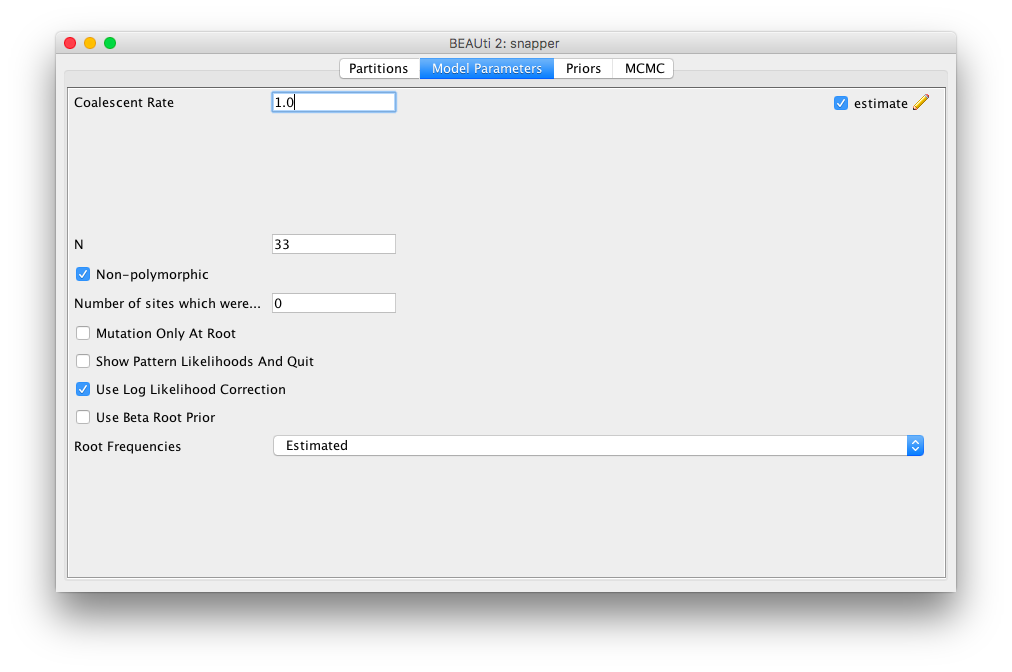
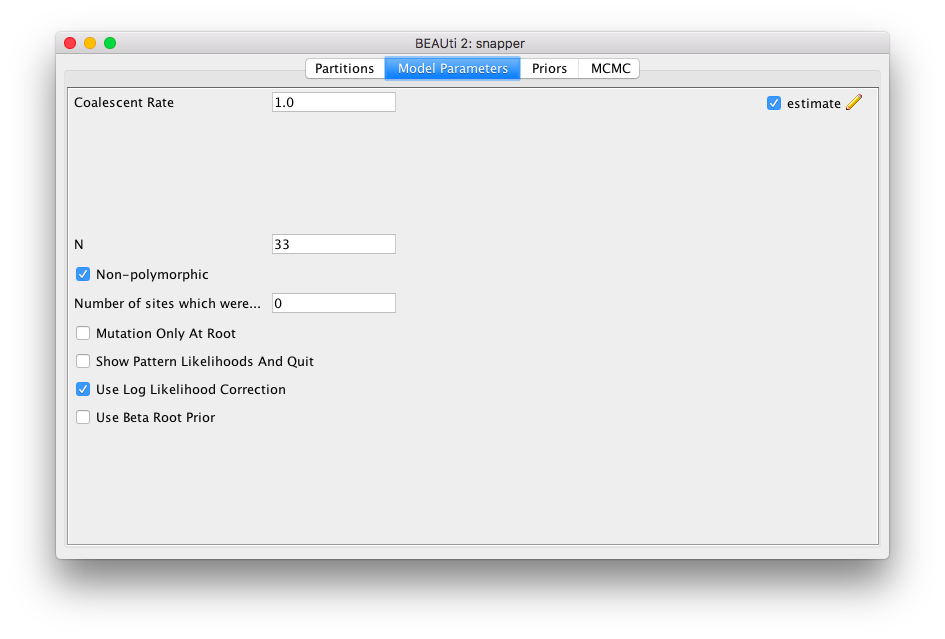
update snapper tutorial

Changed region(s): [[0.0307, 0.0297, 0.9513, 0.892], [0.2762, 0.3568, 0.3989, 0.3865], [0.2762, 0.6541, 0.3683, 0.6839]]

diff --git a/snapper-delimitation/tutorial/snapper-tutorial-steps.tex b/snapper-delimitation/tutorial/snapper-tutorial-steps.tex
@@ -96,9 +96,7 @@
 
 \step{Import the SNP data.}{
     Import the SNP data (the {\bf hemi129.nex} file)
-    using the drop-down menu \subItem{File}{Import Alignment.}
-    
-    \footnote{For the SNAPP tutorial, there is a smaller version of the {\bf hemi129.nex} file called {\bf smallhemi129.nex}. If you load the full data set from {\bf hemi129.nex} with SnAPP you might not finish this tutorial in the allocated time frame. However, the runtime of SNAPPER is not sensitive to the number of sequences per species, just the number of species and length of sequences.}
+    using the drop-down menu \subItem{File}{Import Alignment.\footnote{For the SNAPP tutorial, there is a smaller version of the {\bf hemi129.nex} file called {\bf smallhemi129.nex}. If you load the full data set from {\bf hemi129.nex} with SnAPP you might not finish this tutorial in the allocated time frame. However, the runtime of SNAPPER is not sensitive to the number of sequences per species, just the number of species and length of sequences.}}
 
     Once the data are successfully loaded into \program{BEAUTi} you should see a list of the 
     samples included in the data file (Figure~\ref{fig:beauti-data-imported}.)
@@ -134,7 +132,7 @@
      
     How many samples should you include? More samples give more accurate estimates and has not computation cost for SNAPPER (unlike SNAPP, which is very sensitive to the number of samples), so the more samples the better.
     Keep in mind that the number of species slows down SNAPPER much more than the number of SNPs.
-    If you have too many species and the analysis rusn unbearably slow, you might sub-sample the number of species
+    If you have too many species and the analysis rusn unbearably slow, you might sub-sample the number of species.
 
     \begin{figure}[htbp]
         \centering
@@ -148,22 +146,18 @@
 }
 
 
-\step{Set the mutation model.}{
-    Next, set up our model under the \menutab{Mutation Model} tab Figure~\ref{fig:beauti-mutation}.
-    Be sure to read the documentation \href{http://www.beast2.org/tutorials}{A rough guide to SNAPPER} to learn more about the model options. Briefly, the parameters are as follows:
-
-\small{
-    \begin{compactdesc}
-       \item[\field{Mutation Rate U: instantaneous rate of mutating from the 0 allele to the 1 allele.}]
-       \item[\field{Mutation Rate V: instantaneous rate of mutating from the 1 allele to the 0 allele.}]
-       \item[\field{Coalescence Rate: population size parameter with one value for each node in the tree.}]
-    \end{compactdesc}
+\step{Set the model parameters.}{
+    Next, set up our model under the \menutab{Model Parameters} tab Figure~\ref{fig:beauti-mutation}.
+    Be sure to read the documentation \href{http://www.beast2.org/tutorials}{A rough guide to SNAPP} to learn more about the model options\footnote{For SNAPP, the mutation rates U and V representing instantaneous rate of mutating from the 0 allele to the 1 allele and from 1 to 0 respectively are included in the model. However, keeping U and V equal to 1 seems more appropriate, so these parameters are hidden in BEAUti for the SNAPPER model.}. Briefly, the parameter of interest is the {\tt Coalescent Rate} which determines the population size parameter with one value for each node in the tree.
     
-    \textit{Recommendations:}  Set mutation rates u and v = 1 and do not sample. Alternatively, you can click the {\bf ``Calc mutation rates''} button to get a direct estimate of u and v. Either way, you typically do not have to estimate these parameters during the MCMC. 
+    \textit{Recommendations:}  %Set mutation rates u and v = 1 and do not sample. Alternatively, you can click the {\bf ``Calc mutation rates''} button to get a direct estimate of u and v. Either way, you typically do not have to estimate these parameters during the MCMC. 
     
-    ``Coalescent Rate'': check the sample box. If you do not sample, then you assume that all population sizes are the same, which is unrealistic. The coalescent rate is 2/theta, and the number is simply the starting value used to initialize the analysis. Do not confuse the coalescent rate with the theta prior. The theta prior is described in detail in the next section.
+    ``Coalescent Rate'': check the ``estimate`` box. If you do not sample, then you assume that all population sizes are the same, which is unrealistic. The coalescent rate is 2/theta, and the number is simply the starting value used to initialise the analysis. Do not confuse the coalescent rate with the theta prior. 
+    %The theta prior is described in detail in the next section.
     
-    The ``Include non-polymorphic'' checkbox is used in cases where invariant sites have been included in the data. The likelihood calculations are 
+    ``N'' is the dimension of Chebyshef functions used for approximating the SNAPP tree likelihood. N should be power of 2 plus 1 (e.g. 33, 17, 65). Higher values are more accurate but slower.
+    
+    The ``Non-polymorphic'' checkbox is used in cases where invariant sites have been included in the data. The likelihood calculations are 
     different if \program{SNAPPER} assumes that all constant sites have been removed. If you are using a typical SNP dataset that only includes variable site, then make sure that the box is not checked.
     
     The ``Mutation Only At Root'' checkbox indicates conditioning on zero mutations, except at root (default false). As a result, all gene 
@@ -172,7 +166,9 @@
     The ``Show Pattern Likelihoods And Quit'' checkbox is handy if you just want to print out the likelihoods for all patterns in the starting state and then quit.
     
     The ``Use Log Likelihood Correction'' checkbox is for calculating corrected likelihood values for Bayes factor test of different species assignments (the calculation is almost instantaneous, and it will not slow down your analysis).
-    }
+    
+    When the ``Use beta root prior'' checkbox is checked, instead of using a uniform prior for allele frequencies at the root, a beta root prior is used.
+ 
     
         \begin{figure}[htbp]
         \centering
@@ -191,20 +187,18 @@
     However, setting it up right requires thinking about details that some empiricists would rather not think about.
 
 
-TODO: fix the following
-\small{
-    \begin{compactdesc}
-       \item[\field{Alpha: shape parameter for the gamma prior on population sizes.}]
-       \item[\field{Beta: rate parameter for the gamma prior on population sizes.}]
-       \item[\field{Kappa: parameter used when selecting the CIR rate prior (below).}]
-       \item[\field{Lambda: Birth rate for the Yule model prior on the species tree.}]
-       \item[\field{Rateprior: prior on rates can be Gamma, InverseGamma, CIR, or Uniform.}]
-    \end{compactdesc}
-}
 
-\textit{Setting the expected divergence (theta) prior.} Recall that for a diploid population, theta = 4Nu, where N is the effective population size and u is the per-generation mutation rate. If theta=0.004, you expect to observe 0.4\% variation between two randomly sampled alleles in a population. Another way to think about this is in the expected number of substitutions; ``theta=0.004'' means that for two randomly sampled individuals within a population you expect to observe 4 SNPs in 1,000 bases. In \program{BEAUTi}, the gamma prior on theta is parameterized such that the mean is alpha/beta. For example, if alpha=1 and beta = 250, the prior mean on theta is 0.004. One way of estimating a reasonable mean for the theta prior is to calculate pairwise sequence divergence among all individuals known to belong to a single species and take the average value as the mean for theta. Higher prior means on theta will favor models with populations grouped together, because they represent an expectation that average divergence within populations is relatively high. Users can select different distributions for the theta prior under ``Rateprior''. If ``Rateprior'' is set to ``gamma'' (recommended), the mean value of theta is calculated as alpha/beta.  Note that in some implementations (including the R function rgamma() and Beauti's internal visualizer), the mean of a gamma distribution is calculated as alpha*beta rather than alpha/beta. This is the case for the Lambda prior (discussed below). Finally, kappa is a parameter that is only applied when the CIR distribution is used (see the Rough Guide to SNAPPER for further details). 
 
-\textit{Setting the speciation rate prior Lambda:} \program{SNAPPER} uses a Yule prior for the species tree and branch lengths on the species tree. This prior has a single parameter, {$\lambda$} (Lambda), representing the speciation rate. This rate, in turn, determines the (prior) expected height of the species tree. The higher the speciation rate, the higher the probability of supporting more species during species delimitation. The trees that come out of SNAPPER are not time calibrated. The branch lengths should be interpreted in units of expected substitutions per site. Translating this into time requires an assumption about the substitution rate. Two different options for setting lambda are compared in this tutorial: using a fixed value versus assigning a broad prior. In general, tree height estimates are similar using either a fixed lambda (lambda = 5) or a gamma distribution (2, 200), as shown below. The mean of the gamma distribution for Lambda is calculated as alpha*beta rather than alpha/beta as it is for theta. 
+The default priors are
+\begin{itemize}
+\item for the tree, a Yule prior representing a pure birth process with birth rate parameter {$\lambda$}.
+\item a {\bf terrible} uniform prior with range minus infinity to plus infinity for the birth rate {$\lambda$}.
+\item a gamma prior with shape=2, scale=2 for coalescent rates.
+\end{itemize}
+
+The prior on {$\lambda$} seems non-informative allowing the data to drive the analysis instead of prior information. However, for estimating the marginal likelihood using path sampling (see Step 11), ``proper'' priors are required. A proper prior is a prior that when integrating over its range sums to 1. Since the uniform prior has infinite bounds, the integral over the range does not do that. The prior can be made proper by defining finite upper and lower bounds.\footnote{The 1/X prior is another prior that is not proper and therefore not recommended.}
+
+\textit{Setting the speciation rate prior Lambda:} \program{SNAPPER} by default uses a Yule prior for the species tree and branch lengths on the species tree. This prior has a single parameter, {$\lambda$} (Lambda), representing the speciation rate. This rate, in turn, determines the (prior) expected height of the species tree. The higher the speciation rate, the higher the probability of supporting more species during species delimitation. The trees that come out of SNAPPER are not time calibrated. The branch lengths should be interpreted in units of expected substitutions per site. Translating this into time requires an assumption about the substitution rate. Two different options for setting lambda are compared in this tutorial: using a fixed value versus assigning a broad prior. In general, tree height estimates are similar using either a fixed lambda (lambda = 5) or a gamma distribution (2, 2), as shown below. The mean of the gamma distribution for Lambda is calculated as alpha*beta rather than alpha/beta as it is for theta. 
 
      \begin{figure}[htbp]
         \centering
@@ -214,7 +208,7 @@ TODO: fix the following
     \end{figure}  
     
     
-\textit{Fixed value for Lambda}: The specific prior that you use for {$\lambda$} (Lambda) depends on the number of species in your analysis and the depth of your tree in units of expected substitutions per site. See the Rough Guide to SNAPPER for further details and an equation for calculating Lambda. Using a useful script written by Jamie Oaks, called \href{https://github.com/joaks1/pyule}{pyule}, you can calculate an appropriate lambda value based on prior information about the number of species, and the height of the species tree in expected substitutions per site. If sequence data are available, then you can approximate the height of the species tree obtained by calculating the maximum observed divergence between any pair of taxa divided by two (height = max divergence/2). 
+\textit{Fixed value for Lambda}: The specific prior that you use for {$\lambda$} (Lambda) depends on the number of species in your analysis and the depth of your tree in units of expected substitutions per site. See the Rough Guide to SNAPP for further details and an equation for calculating Lambda. Using a useful script written by Jamie Oaks, called \href{https://github.com/joaks1/pyule}{pyule}, you can calculate an appropriate lambda value based on prior information about the number of species, and the height of the species tree in expected substitutions per site. If sequence data are available, then you can approximate the height of the species tree obtained by calculating the maximum observed divergence between any pair of taxa divided by two (height = max divergence/2). 
    \newpage
 Table 1 provides some suggestions for Lambda priors across a range of expected substitutions per site from root to tip (up to 20\% sequence divergence from root to any tip), and for relatively small species trees (up to 20 species). In general, different Lambda settings do not influence the results, since in most cases the data will dominate. 
 
@@ -250,6 +244,11 @@ Number of species 	& 5	& 1283 	& 257 	& 128 	& 26 		& 13 		& 6\\
         \label{fig:beauti-prior2}
     \end{figure}   
     
+    
+\textit{Setting the expected divergence (theta) prior.} Recall that for a diploid population, theta = 4Nu, where N is the effective population size and u is the per-generation mutation rate. If theta=0.004, you expect to observe 0.4\% variation between two randomly sampled alleles in a population. Another way to think about this is in the expected number of substitutions; ``theta=0.004'' means that for two randomly sampled individuals within a population you expect to observe 4 SNPs in 1,000 bases. In \program{SNAPPER}, the gamma prior on theta is parameterised such that the mean is alpha*beta. For example, if alpha=2 and beta = 0.002, the prior mean on theta is 0.004. One way of estimating a reasonable mean for the theta prior is to calculate pairwise sequence divergence among all individuals known to belong to a single species and take the average value as the mean for theta. Higher prior means on theta will favour models with populations grouped together, because they represent an expectation that average divergence within populations is relatively high. 
+You can select different distributions for the theta prior by clicking the drop down box with "Gamma" next to "snapperCoalescentRate...". If the prior is set to ``Gamma'' (recommended), the mean value of theta is calculated as alpha*beta when using the ShapeScale mode.  Note that in some implementations, the mean of a gamma distribution is calculated as alpha/beta rather than alpha*beta. 
+
+    
     }
 
    
@@ -265,9 +264,9 @@ Number of species 	& 5	& 1283 	& 257 	& 128 	& 26 		& 13 		& 6\\
         \item[\field{State Burnin:}] \fieldvalue{0}
         \item[\field{Chain Length:}] \fieldvalue{1000}
         \item[\field{Store Every:}] \fieldvalue{10}
-        \item[\field{tracelog:File Name:}] \fieldvalue{runA.log}
+        \item[\field{tracelog:File Name:}] \fieldvalue{RunA.log}
         \item[\field{tracelog:Log Every:}] \fieldvalue{10}
-        \item[\field{treelog:File Name:}] \fieldvalue{runA.trees}
+        \item[\field{treelog:File Name:}] \fieldvalue{RunA.trees}
         \item[\field{treelog:Log Every:}] \fieldvalue{10}
     \end{compactdesc}
     Leave the remaining options at their default values
@@ -362,8 +361,6 @@ The path sampling parameters that you just entered into your XML file are as fol
       \item[\field{nrOfSteps: the number of path sampling steps to use}]
     \end{compactdesc}
     
-If for some reason you are using an older versions of \program{SNAPPER} (<v1.1.10) you may need an extra step; find the text {\bf ``snap.MCMC''} and replace it with {\bf ``beast.core.MCMC''.}  
-Finally, move the entire {\bf ``stateDistribution''} element to just before the run element. This step requires that you move all of the lines starting with {\bf ``<stateDistribution''} and ending with {\bf ``</stateDistribution>''} to just above the run element.
 
 
 }
@@ -436,13 +433,13 @@ You do not have to exclude the samples from the data matrix and rerun \program{B
    After you run each of the alternative species delimitation models you can rank them by their marginal likelihood estimate (MLE). You 
    can also calculate Bayes factors to compare the models. 
    The Bayes factor (BF) is a model selection tool that is simple and well suited for the purposes of comparing species delimitation models. 
-   Calculating the BF between models is simple. To do so, simply subtract the MLE values for two models, and then multiply the difference by two (BF = 2 x (model1 - model2). A positive BF value indicates support in favor of model 1. A negative BF value indicates support in favor of model 2. 
+   Calculating the BF between models is simple. To do so, simply subtract the MLE values for two models, and then multiply the difference by two (BF = 2 x (model1 - model2). A positive BF value indicates support in favour of model 1. A negative BF value indicates support in favour of model 2. 
 
 The strength of support from BF comparisons of competing models can be evaluated using the framework of \cite{kass95}. 
  The BF scale is as follows: 
 0 < BF < 2 is not worth more than a bare mention, 2 < BF < 6 is positive evidence, 6 < BF < 10 is strong support, and BF > 10 is decisive.
 
-The results for the seven gecko models are provided in Table 2. The model that lumps the western forests into one species and splits \textit{eniangii} into two (runS) is the top-ranked model. It has the largest MLE value, and it is supported in favor of the current taxonomy model (runA). The BF in support for model S is decisive compared to model A. It is important to emphasize that these results are \textit{tragically deficient} in terms of the MCMC analysis. Much, much longer runs are required to obtain stable results. 
+The results for the seven gecko models are provided in Table 2. The model that lumps the western forests into one species and splits \textit{eniangii} into two (runS) is the top-ranked model. It has the largest MLE value, and it is supported in favor of the current taxonomy model (runA). The BF in support for model S is decisive compared to model A. It is important to emphasise that these results are \textit{tragically deficient} in terms of the MCMC analysis. Much, much longer runs are required to obtain stable results. 
 
 Table 2: Path sampling results for the seven species delimitation models shown in Figure \ref{fig:map}. All Bayes factor (BF) calculations are made against the current taxonomy model (runA). Therefore, positive BF values indicate support for the current taxonomy model, and negative BF values indicate support for the alternative model.
 \begin{table}[ht]
@@ -464,10 +461,10 @@ BF = Bayes factor\\
 \end{table}
 }
 
-\intermediate{\subsection{Summarizing the trees using \program{TreeAnnotator}.}}
+\intermediate{\subsection{Summarising the trees using \program{TreeAnnotator}.}}
 
-\step{Summarize the species tree using \program{TreeAnnotator}.}{
-TreeAnnotator will summarize the posterior distribution of species trees and identify the topology with the best posterior support, and summarize the divergence times for each node in the tree.
+\step{Summarise the species tree using \program{TreeAnnotator}.}{
+TreeAnnotator will summarize the posterior distribution of species trees and identify the topology with the best posterior support, and summarise the divergence times for each node in the tree.
 	Launch the \program{TreeAnnotator} program.
     You can also specify the burnin value if you haven't already excluded burn-in samples in \program{LogCombiner}.
 	For the \field{Target tree type} field, choose \fieldvalue{Maximum clade credibility tree}.
@@ -477,9 +474,9 @@ TreeAnnotator will summarize the posterior distribution of species trees and ide
 	Click \field{Run}
 }
 
-\intermediate{\subsection{Visualizing the tree in \program{FigTree}}}
+\intermediate{\subsection{Visualising the tree in \program{FigTree}}}
 
-\step{Visualize the species tree in \program{FigTree}.}{
+\step{Visualise the species tree in \program{FigTree}.}{
     Launch the \program{FigTree} program, and load the \localfile{runA-MCC.tre} file
     you just created with \program{TreeAnnotator}.
     Check the \field{Branch Labels} option and select
